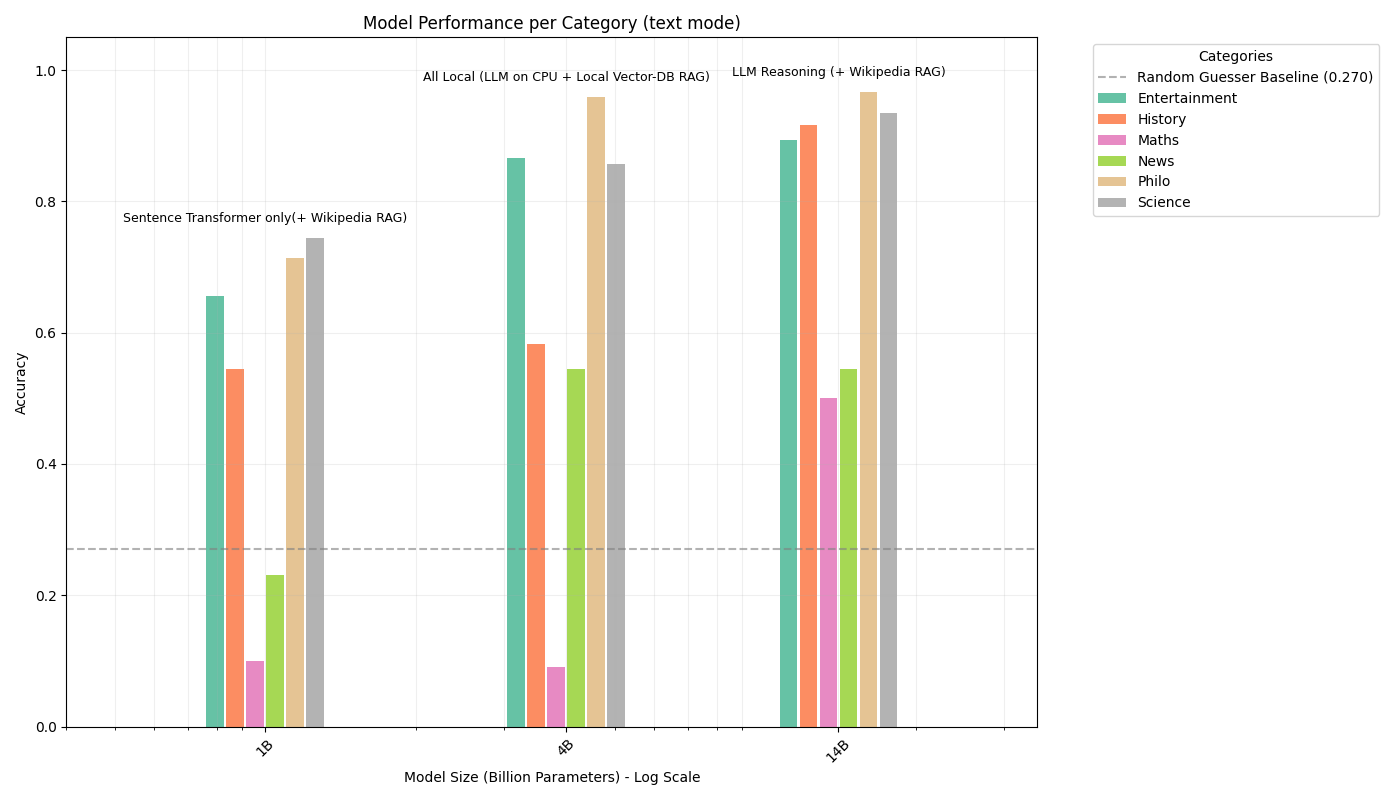
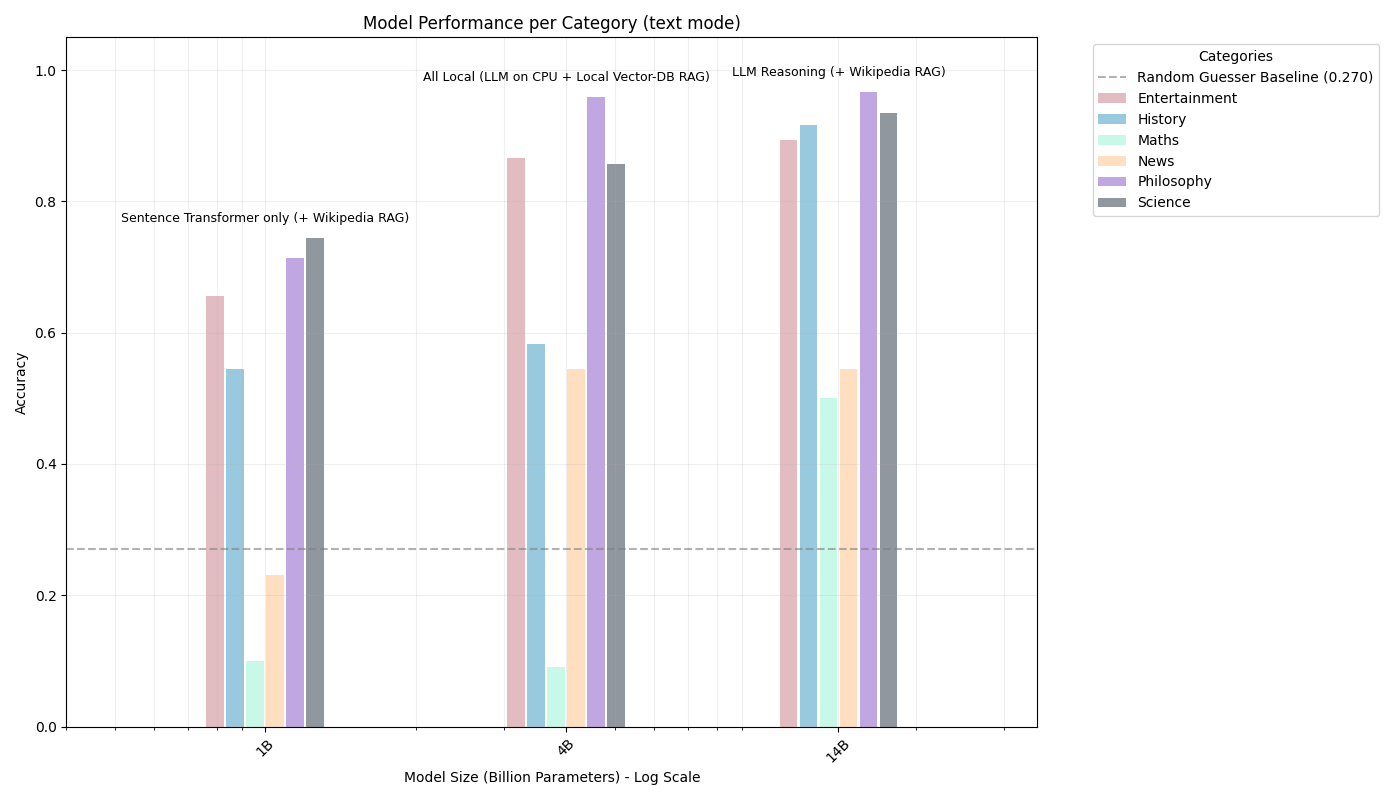
finsih plots

diff --git a/plots/performance_plots.py b/plots/performance_plots.py
@@ -21,7 +21,7 @@ def extract_size(model_name):
 sheets_dir = "../plots/sheets/"
 # approach_name -> {text_file, speech_file, type}
 approaches_config = {
-    "Sentence Transformer only(+ Wikipedia RAG)": {
+    "Sentence Transformer only (+ Wikipedia RAG)": {
         "text": ("bi_cross_encoder_text.xlsx", "excel"),
         "speech": ("bi_cross_encoder_speech.xlsx", "excel")
     },
@@ -40,13 +40,13 @@ cat_label_map = {
     'science_nature_mean_question_accuracy': 'Science',
     'maths_mean_question_accuracy': 'Maths',
     'news_mean_question_accuracy': 'News',
-    'philosophy_psychology_mean_question_accuracy': 'Philo',
+    'philosophy_psychology_mean_question_accuracy': 'Philosophy',
     'Ent Acc.': 'Entertainment',
     'Sci Acc.': 'Science',
     'Anc Acc.': 'History',
     'Math Acc.': 'Maths',
     'News Acc.': 'News',
-    'Phil Acc.': 'Philo'
+    'Phil Acc.': 'Philosophy'
 }
 
 cat_cols_std = [
@@ -166,8 +166,20 @@ tick_labels = [f"{int(t)}B" for t in ticks]
 # Shared plotting parameters
 GROUP_OFFSET = 0.2 # Increased offset for better separation in log space
 
+# Unified Color Palette (Pleasant Pastels)
+C_RED = '#e3bcc1'    # Speech Mode, Total Time, Approach 1
+C_BLUE = '#99c9df'   # Text Mode, Reasoning, Approach 2
+C_GREEN = '#c8f8e8'  # Search, Approach 3
+C_ORANGE = '#ffdfbf' # Transcription
+C_PURPLE = '#C1A7E2' # Category 5
+C_GOLD = '#91979e'   # Category 6
+
+APPROACH_COLORS = [C_RED, C_BLUE, C_GREEN]
+CAT_COLORS = [C_RED, C_BLUE, C_GREEN, C_ORANGE, C_PURPLE, C_GOLD]
+TIMING_COLORS = [C_ORANGE, C_GREEN, C_BLUE, C_RED] # Transcription, Search, Reasoning, Total
+
 # --- Plot 1: Box Plot (Original) ---
-fig1, ax1 = plt.subplots(figsize=(12, 7))
+fig1, ax1 = plt.subplots(figsize=(14, 8))
 ax1.set_xscale('log')
 ax1.axhline(y=random_baseline, color='grey', linestyle='--', alpha=0.6, label=f'Random Guesser Baseline\nMean Acc: {random_baseline:.3f}')
 
@@ -181,7 +193,7 @@ for i, approach in enumerate(sorted_text_best_with_meta):
 
     width = 0.2 * pos_plot
     bp = ax1.boxplot([item['category_accs']], positions=[pos_plot], widths=width, patch_artist=True, medianprops={'visible': False})
-    color = plt.cm.viridis(i / len(sorted_text_best_with_meta))
+    color = APPROACH_COLORS[i % len(APPROACH_COLORS)]
     for patch in bp['boxes']:
         patch.set_facecolor(color)
         patch.set_alpha(0.7)
@@ -204,8 +216,7 @@ fig2, ax2 = plt.subplots(figsize=(14, 8))
 ax2.set_xscale('log')
 ax2.axhline(y=random_baseline, color='grey', linestyle='--', alpha=0.6, label=f'Random Guesser Baseline ({random_baseline:.3f})')
 unique_categories = sorted(list(set(cat for item in sorted_text_best for cat, acc in item['category_results'])))
-cat_colors = plt.cm.Set2(np.linspace(0, 1, len(unique_categories)))
-cat_color_map = {cat: color for cat, color in zip(unique_categories, cat_colors)}
+cat_color_map = {cat: color for cat, color in zip(unique_categories, CAT_COLORS)}
 num_cats = len(unique_categories)
 log_width_cat = 0.04 
 
@@ -262,7 +273,7 @@ for i, approach in enumerate(sorted_text_best_with_meta):
     width = text_pos * 0.1
     bp_text = ax3.boxplot([approach["text"]["category_accs"]], positions=[text_pos], widths=width, patch_artist=True, medianprops={'visible': False})
     for patch in bp_text['boxes']:
-        patch.set_facecolor('#66b3ff') # Blue for text
+        patch.set_facecolor(C_BLUE) # Blue for text
         patch.set_alpha(0.7)
         if i == 0: patch.set_label('Text Mode')
     
@@ -270,7 +281,7 @@ for i, approach in enumerate(sorted_text_best_with_meta):
     speech_pos = 10**(center_pos + 0.05)
     bp_speech = ax3.boxplot([approach["speech"]["category_accs"]], positions=[speech_pos], widths=width, patch_artist=True, medianprops={'visible': False})
     for patch in bp_speech['boxes']:
-        patch.set_facecolor('#ff9999') # Red for speech
+        patch.set_facecolor(C_RED) # Red for speech
         patch.set_alpha(0.7)
         if i == 0: patch.set_label('Speech Mode')
     
@@ -298,7 +309,6 @@ ax4.axhline(y=30, color='red', linestyle='--', alpha=0.6, label='30s Time Limit'
 
 time_categories = ['transcription', 'search', 'reasoning', 'total']
 time_labels = ['Transcription', 'Search', 'Reasoning', 'Total Time']
-time_colors = ['#ffcc99', '#99ff99', '#99ccff', '#ff9999']
 num_time_cats = len(time_categories)
 log_width_time = 0.06
 
@@ -327,7 +337,7 @@ for i, approach in enumerate(sorted_text_best_with_meta):
         bar_pos = 10**(start_pos + j * log_width_time + log_width_time/2)
         bar_width = bar_pos * 0.1 # Restored original width (10% of position)
         
-        ax4.bar(bar_pos, mean_val, width=bar_width, color=time_colors[j], label=time_labels[j] if i == 0 else "")
+        ax4.bar(bar_pos, mean_val, width=bar_width, color=TIMING_COLORS[j], label=time_labels[j] if i == 0 else "")
         
         if cat_vals and len(cat_vals) > 0:
             ymin = min(cat_vals)
